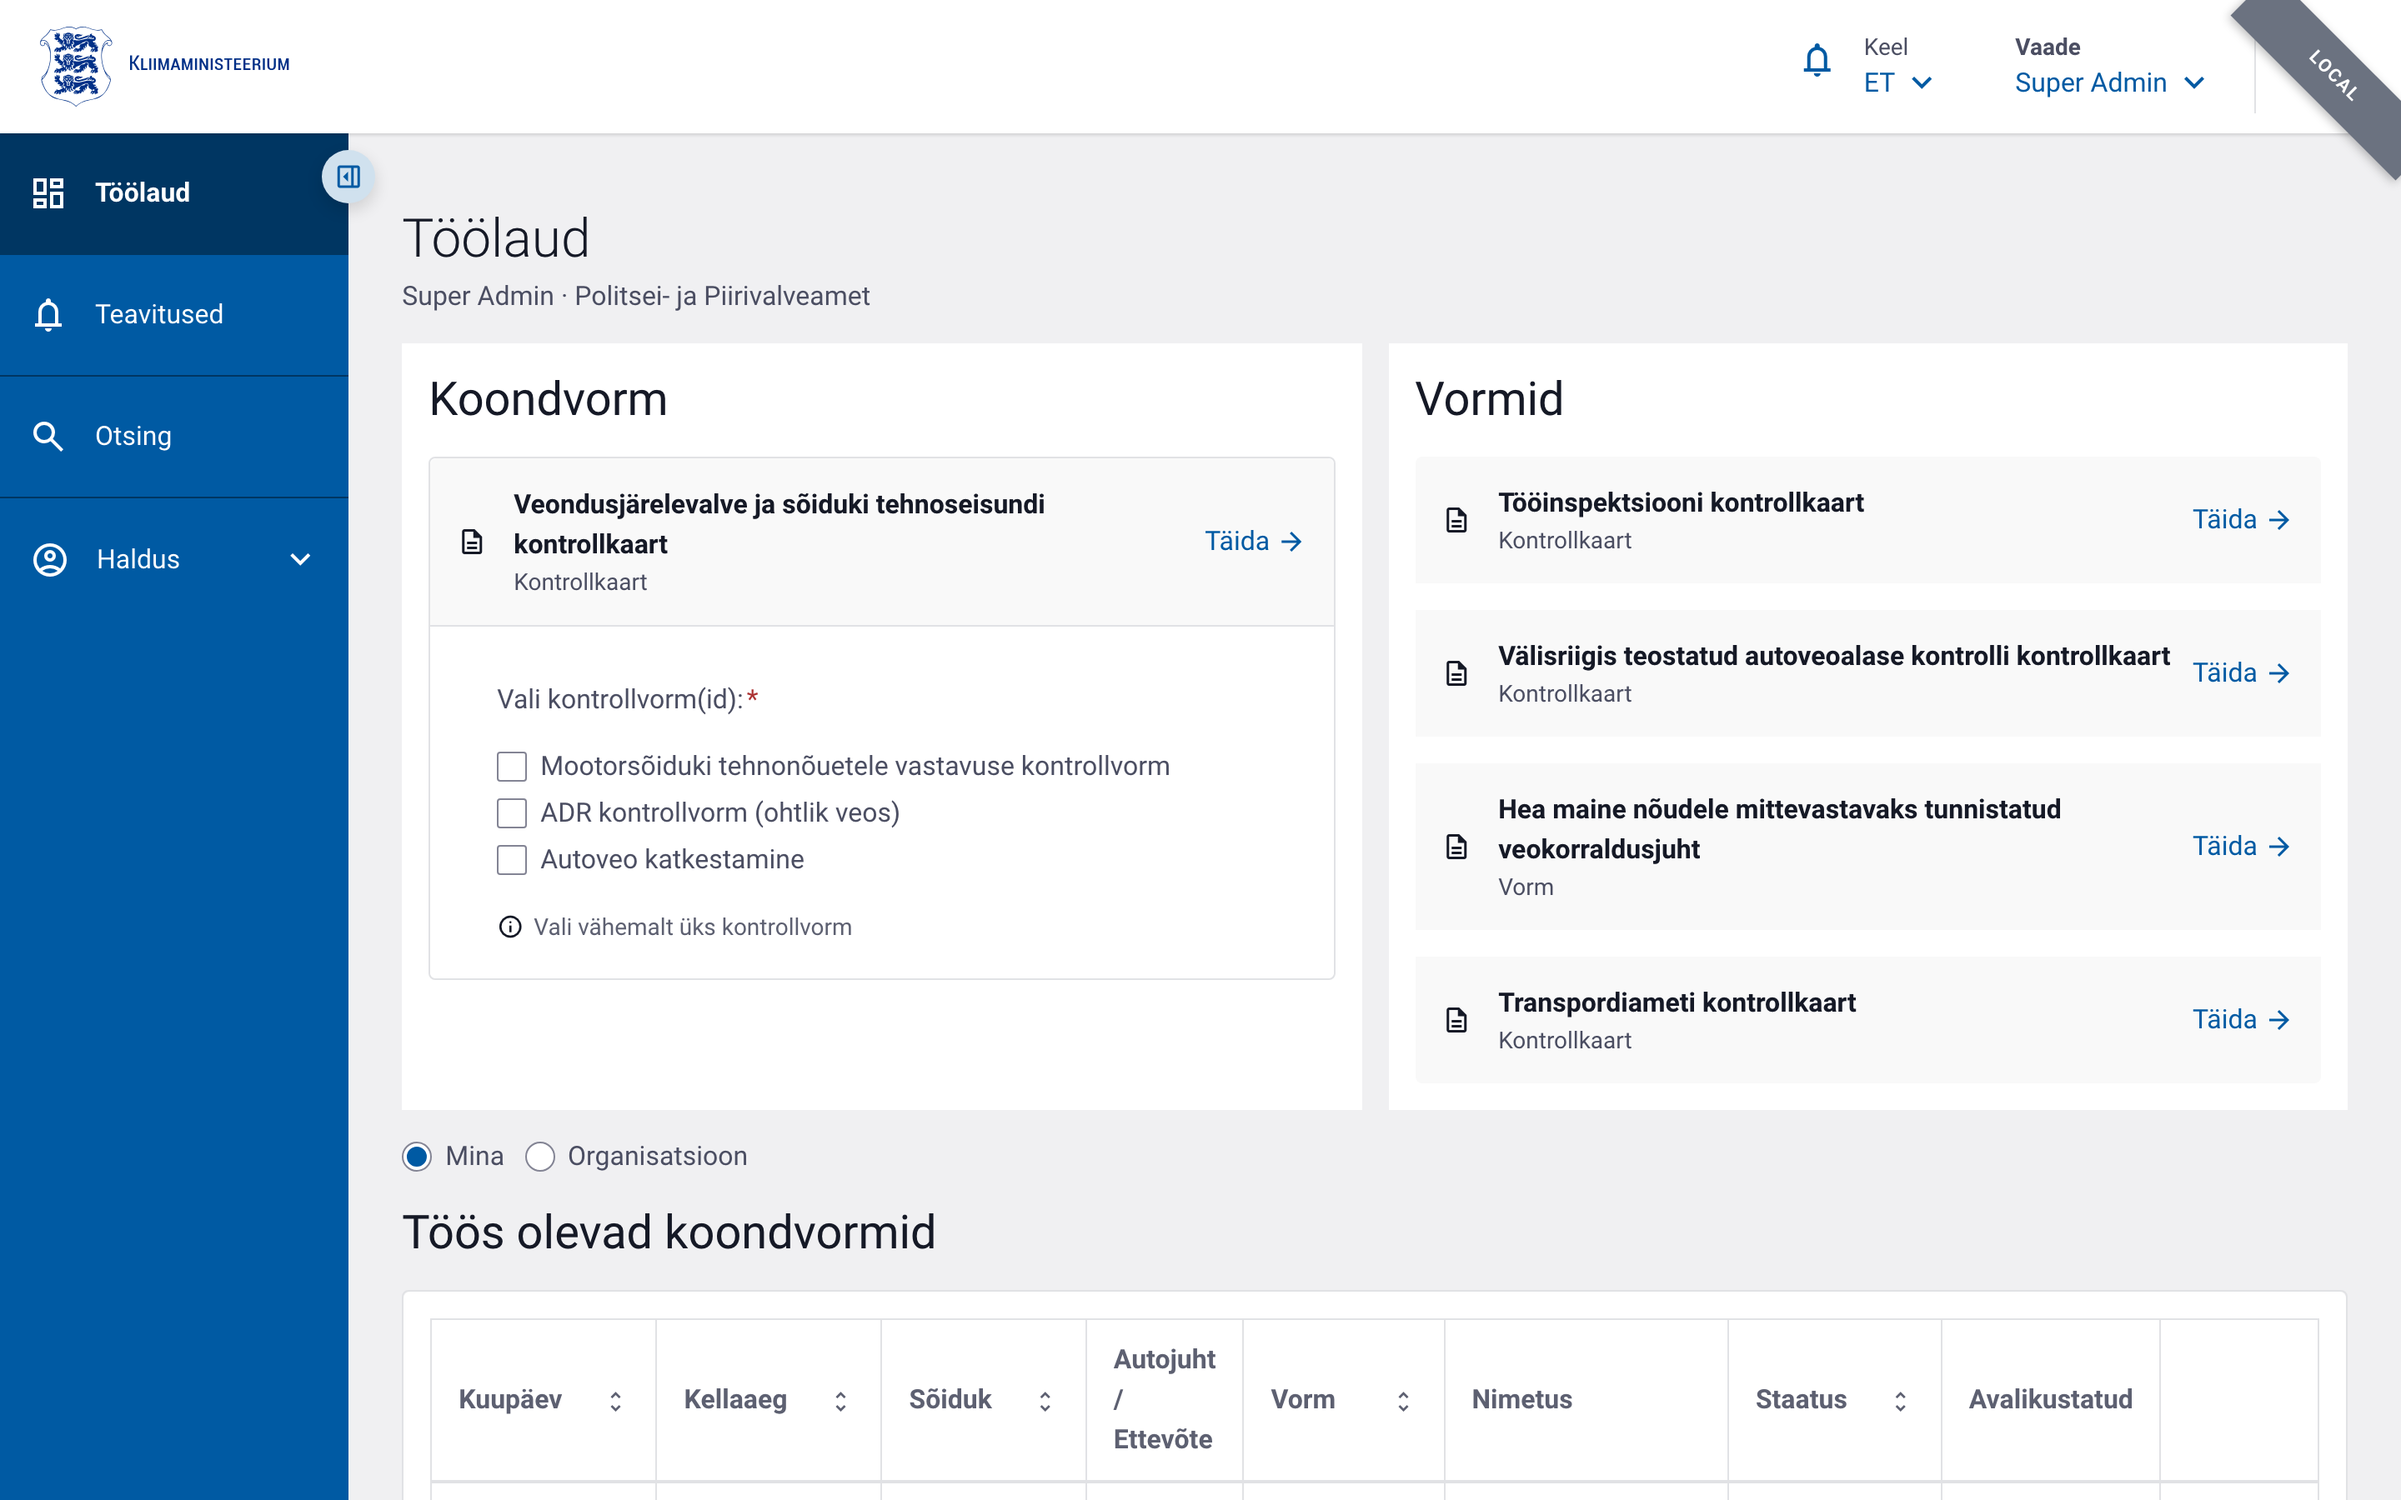
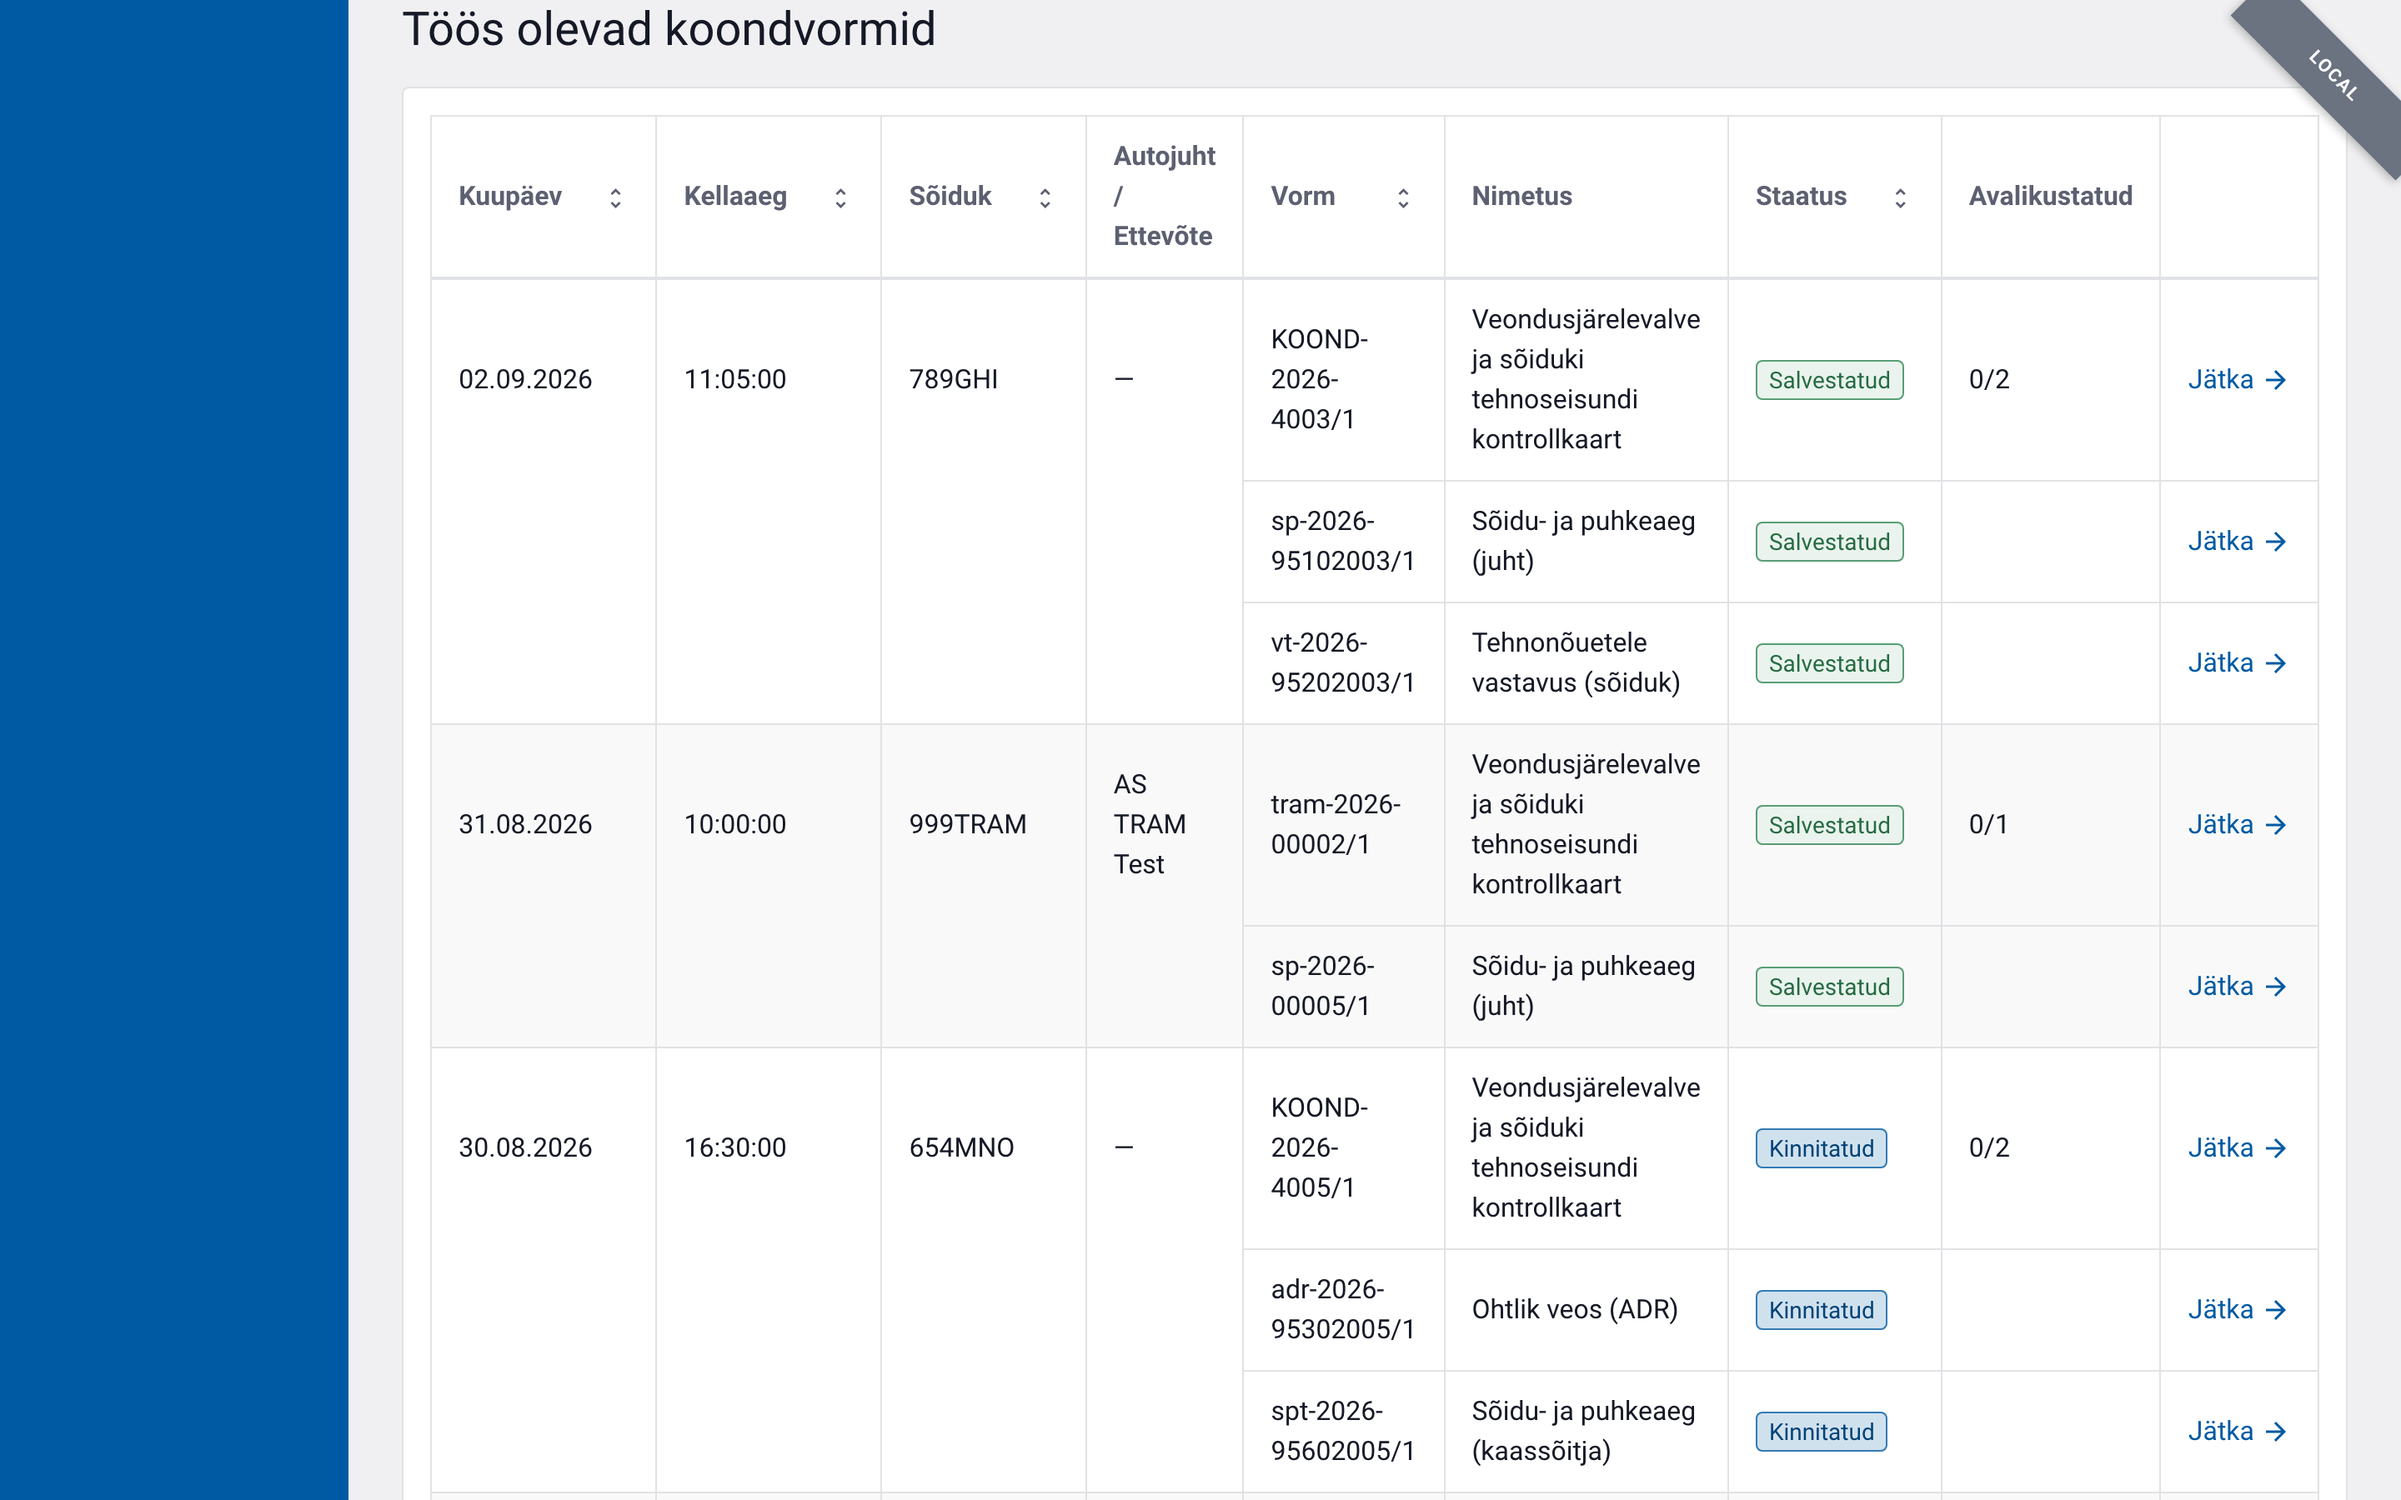
feat(menu): "Riskiskoorid" eraldi ülatasandi menüüpunktiks + juhendi uuendus
- useSideNavProps: risk-scores punkt tõstetud "Haldus" alt välja ülatasandile
  (ikoon trending_up), nimi nav.riskLevels → nav.riskScores "Riskiskoorid"
- riskScores.title "Riskitasemed" → "Riskiskoorid"; breadcrumb uuendatud
- ptk 03 (menüü): Riskiskoorid ülatasandil; ERRU-menüüpunktide uued nimed
- ptk 04 (töölaud): lisatud "Töös olevad vormid" tabeli kirjeldus + uus
  ekraanipilt; kirjeldus täpsustatud (kaks tabelit, grupeerimine)
- ptk 16 + admin-guide 06: navigatsioon "Riskiskoorid"
- capture.mjs: uus shot 04-toolaud-vormid-tabel.png
- 7 ekraanipilti värskendatud + 1 uus

diff --git a/frontend/src/layout/useSideNavProps.tsx b/frontend/src/layout/useSideNavProps.tsx
@@ -84,6 +84,16 @@ export function useSideNavProps(): UseSideNavPropsResult {
       });
     }
 
+    // Riskiskoorid on eraldi ülatasandi menüüpunkt (mitte "Haldus" all).
+    if (hasPermission(PERMISSIONS.RISK_REPORT_LIST)) {
+      items.push({
+        children: t('nav.riskScores'),
+        icon: 'trending_up',
+        to: '/admin/risk-scores',
+        isActive: pathname.startsWith('/admin/risk-scores'),
+      });
+    }
+
     if (
       hasAnyPermission([
         PERMISSIONS.USER_LIST_ADMIN,
@@ -162,14 +172,6 @@ export function useSideNavProps(): UseSideNavPropsResult {
         children: t('nav.logs'),
         to: '/logs',
         isActive: pathname.startsWith('/logs'),
-      });
-    }
-
-    if (hasPermission(PERMISSIONS.RISK_REPORT_LIST)) {
-      adminSubItems.push({
-        children: t('nav.riskLevels'),
-        to: '/admin/risk-scores',
-        isActive: pathname.startsWith('/admin/risk-scores'),
       });
     }
 

diff --git a/frontend/src/layout/breadcrumbs/routes.ts b/frontend/src/layout/breadcrumbs/routes.ts
@@ -66,7 +66,7 @@ export const BREADCRUMB_ROUTES: BreadcrumbRouteEntry[] = [
   { pattern: '/logs', labelKey: 'nav.logs', parent: '/' },
 
   // Admin / misc
-  { pattern: '/admin/risk-scores', labelKey: 'nav.riskLevels', parent: '/' },
+  { pattern: '/admin/risk-scores', labelKey: 'nav.riskScores', parent: '/' },
   { pattern: '/notifications', labelKey: 'nav.notifications', parent: '/' },
 
   // Control forms — foreign violation

diff --git a/docs/user-guide/04-toolaud.md b/docs/user-guide/04-toolaud.md
@@ -5,8 +5,9 @@ roll ja organisatsioon (nt „Super Admin · Politsei- ja Piirivalveamet").
 
 ![Ametniku töölaud](images/04-toolaud/01-toolaud.png)
 
-Ametniku töölaud koosneb kahest uue kontrolli alustamise plokist ja nende all
-olevast pooleliolevate kontrollide tabelist.
+Ametniku töölaud koosneb kahest uue kontrolli alustamise plokist (**Koondvorm**
+ja **Vormid**) ning nende all olevast **kahest pooleliolevate kontrollide
+tabelist** — „Töös olevad koondvormid" ja „Töös olevad vormid".
 
 ## Koondvorm
 
@@ -38,16 +39,21 @@ Iga kaardi nupp **„Täida →"** avab vastava tühja vormi.
 
 > Kui Teie õigused katavad ainult ühe ploki vorme, kuvatakse ainult see plokk.
 
+## Mina / Organisatsioon
+
+Mõlema tabeli kohal on lüliti **Mina / Organisatsioon**, mis valib, kas
+kuvatakse ainult Teie enda pooleliolevad vormid või kõigi Teie organisatsiooni
+ametnike omad. Lüliti „Organisatsioon" on nähtav ainult vastava õigusega
+kasutajatele.
+
 ## Töös olevad koondvormid
 
-Plokkide all on tabel **Töös olevad koondvormid**, mis koondab kõik
-pooleliolevad kontrollid. Read on **grupeeritud koondvormi kaupa**: iga
-koondvormi esimene rida kannab põhivormi andmeid ning selle alla on taandega
-loetletud alamvormid.
+Esimene tabel **Töös olevad koondvormid** koondab kõik pooleliolevad
+koondkontrollid. Read on **grupeeritud koondvormi kaupa**: iga koondvormi
+esimene rida kannab põhivormi (üldosa) andmeid ning selle alla on **taandega**
+loetletud selle koondvormi alamvormid.
 
 ![Töös olevad koondvormid](images/04-toolaud/02-toolaud-tabel.png)
-
-### Tabeli veerud
 
 | Veerg | Sisu |
 |---|---|
@@ -56,20 +62,36 @@ loetletud alamvormid.
 | **Sõiduk** | Sõiduki registreerimismärk |
 | **Autojuht / Ettevõte** | Juhi nimi; kui see puudub, ettevõtte nimi |
 | **Vorm** | Vormi number koos versiooniga (nt `KOOND-2026-4003/1`) |
-| **Nimetus** | Vormi tüübi nimi |
+| **Nimetus** | Vormi tüübi nimi (koondvorm või alamvormi liik) |
 | **Staatus** | Vormi hetkeseis (*Salvestatud*, *Kinnitatud*, *Avalikustatud*) |
 | **Avalikustatud** | Koondvormi real: mitu alamvormi on avalikustatud (nt `0/2`) |
 
 Iga rea lõpus on link **„Jätka →"**, mis avab vormi täitmiseks/vaatamiseks.
-Veerge **Kuupäev**, **Kellaaeg**, **Sõiduk**, **Vorm** ja **Staatus** saab
-sorteerida veeru päisele klõpsates. Tähtaja ületanud kontrollide read on esile
-tõstetud.
 
-### Mina / Organisatsioon
+## Töös olevad vormid
 
-Tabeli kohal olev lüliti **Mina / Organisatsioon** valib, kas kuvatakse ainult
-Teie enda pooleliolevad koondvormid või kõigi Teie organisatsiooni ametnike
-omad. Lüliti „Organisatsioon" on nähtav ainult vastava õigusega kasutajatele.
+Teine tabel **Töös olevad vormid** loetleb pooleliolevad **iseseisvad** vormid
+(need, mida täidetakse koondvormist eraldi — tööinspektsiooni kontrollkaart,
+välisriigi rikkumise kontrollkaart, hea maine vorm, Transpordiameti
+kontrollkaart). Ühtegi grupeeringut siin ei ole — iga rida on üks vorm.
+
+![Töös olevad vormid](images/04-toolaud/04-toolaud-vormid-tabel.png)
+
+| Veerg | Sisu |
+|---|---|
+| **Kuupäev** | Kontrolli / sisestamise kuupäev |
+| **Kellaaeg** | Kontrolli kellaaeg |
+| **Sõiduk** | Sõiduki registreerimismärk (kui vorm seda sisaldab) |
+| **Vorm** | Vormi number koos versiooniga |
+| **Nimetus** | Vormi tüübi nimi |
+| **Staatus** | Vormi hetkeseis |
+
+Rea lõpus on link **„Jätka →"**. Tabeli all olev link **„Vaata kõiki vorme →"**
+avab vormide koondotsingu.
+
+Mõlemat tabelit saab **sorteerida** veeru päisele klõpsates. **Tähtaja ületanud**
+kontrollide read on punaselt esile tõstetud. Kui pooleliolevaid vorme ei ole,
+kuvatakse tabeli asemel vastav teade.
 
 ## Kodaniku töölaud
 
@@ -87,7 +109,9 @@ flowchart LR
     A[Töölaud] --> B["Koondvorm: vali alamvormid + Täida"]
     A --> C["Vormid: vali tüüp + Täida"]
     A --> D["Töös olevad koondvormid: Jätka"]
+    A --> F["Töös olevad vormid: Jätka"]
     B --> E[Täida ja salvesta vorm]
     C --> E
     D --> E
+    F --> E
 ```

diff --git a/docs/user-guide/03-menyy.md b/docs/user-guide/03-menyy.md
@@ -1,21 +1,25 @@
 # Menüü ja navigatsioon
 
 Põhimenüü asub vasakul küljel. Menüüpunktid sõltuvad Teie õigustest. Ülemisel
-tasemel on **Töölaud**, **Teavitused**, **Otsing** ja **Haldus**.
+tasemel on **Töölaud**, **Teavitused**, **Otsing**, **Riskiskoorid** ja
+**Haldus**.
 
 ![Vasakmenüü](images/03-menyy/01-vasakmenyy.png)
 
+**Riskiskoorid** (õigus `risk_report.list`) avab veoettevõtete riskiskooride ja
+-tasemete loendi — vt [Riskihindamine](16-riskihindamine.md).
+
 Haldustegevused on koondatud **Haldus** rühma alla, mis avaneb sellele klõpsates.
 Alammenüüs on **Kasutajad**, **Kasutajagrupid**, **Klassifikaatorid**,
-**Tegevusloa kontrolli päringud**, **Mainepäringud**, **RSI teated**,
-**NCR teated**, **Logid** ja **Riskitasemed**. Kuvatakse ainult need punktid,
-milleks Teil on õigus:
+**Tegevusloa kontrolli päringud**, **Mainepäringud**, **Tehnokontrolli teated
+RSI**, **Kontrollitulemuse teated NCR** ja **Logid**. Kuvatakse ainult need
+punktid, milleks Teil on õigus:
 
 ![Haldus alammenüü](images/03-menyy/02-haldus-alammenyy.png)
 
 Neli keskmist punkti on **ERRU** (Euroopa autoveo-ettevõtjate register) teated
-ja päringud: tegevusloa kontroll (CTUD), hea maine päring (CGR), tehnokontrolli
-teade (RSI) ja kontrollitulemuse teade (NCR).
+ja päringud: tegevusloa kontroll (CTUD), hea maine päring (CGR), tehnokontroll
+(RSI) ja kontrollitulemus (NCR).
 
 Menüüriba saab kokku voltida ülemises servas oleva noolenupuga; kokkuvolditult
 kuvatakse ainult ikoonid.
@@ -26,16 +30,16 @@ kuvatakse ainult ikoonid.
 flowchart TD
     A[Töölaud] --> T[Teavitused]
     A --> S[Otsing]
+    A --> R[Riskiskoorid]
     A --> B[Haldus]
     B --> C[Kasutajad]
     B --> D[Kasutajagrupid]
     B --> E[Klassifikaatorid]
     B --> G[Tegevusloa kontrolli päringud CTUD]
     B --> H[Mainepäringud CGR]
-    B --> I[RSI teated]
-    B --> J[NCR teated]
+    B --> I[Tehnokontrolli teated RSI]
+    B --> J[Kontrollitulemuse teated NCR]
     B --> F[Logid]
-    B --> R[Riskitasemed]
 ```
 
 Uusi kontrollakte alustatakse **töölaualt** (plokid „Koondvorm" ja „Vormid"),
@@ -48,15 +52,15 @@ mitte eraldi menüüpunktist — vt peatükk [Töölaud](04-toolaud.md).
 | Töölaud | — | Avaleht kõigile autenditud kasutajatele |
 | Teavitused | — | Rakendusesisesed teavitused kõigile; „Saadetud kirjad" vahekaart `notification.list` õigusega |
 | Otsing | — | Vormide koondotsing (vt [Vormide vaatamine ja ajalugu](15-vormide-vaatamine-ajalugu.md)) |
+| Riskiskoorid | `risk_report.list` | Ettevõtete riskiskooride ja -tasemete loend (vt [Riskihindamine](16-riskihindamine.md)) |
 | Kasutajad | `user.list.admin` või `user.list.local` | Kasutajate nimekiri ja haldus |
 | Kasutajagrupid | `user_group.list.admin` või `user_group.list.local` | Gruppide haldus |
 | Klassifikaatorid | `classifier.list` | Klassifikaatorite vaatamine ja muutmine |
 | Tegevusloa kontrolli päringud (CTUD) | ERRU-õigus | ERRU tegevusloa kontrolli päringud |
 | Mainepäringud (CGR) | ERRU-õigus | ERRU hea maine päringud |
-| RSI teated | ERRU-õigus | Tehnokontrolli teated (RoadSideInspection) |
-| NCR teated | ERRU-õigus | Kontrollitulemuse teated (NotifyCheckResult) |
+| Tehnokontrolli teated RSI | ERRU-õigus | RoadSideInspection teated |
+| Kontrollitulemuse teated NCR | ERRU-õigus | NotifyCheckResult teated |
 | Logid | `audit.read` | Tegevuste (auditi)logi |
-| Riskitasemed | riskihindamise õigus | Ettevõtete riskitasemete loend (vt [Riskihindamine](16-riskihindamine.md)) |
 
 Kontrollakte alustatakse töölaualt, mitte menüüst; nende täitmisõigused on
 vormipõhised (nt `foreign_violation_form.write`, `compound_form.write`,

diff --git a/docs/user-guide/16-riskihindamine.md b/docs/user-guide/16-riskihindamine.md
@@ -90,8 +90,9 @@ sequenceDiagram
 
 ## Administraatori vaade
 
-Ametnikud saavad vaadata kõigi Eesti ettevõtete riskitasemete loendit (**Haldus →
-Riskitasemed**, õigus `risk_report.list`). Loend võimaldab:
+Ametnikud saavad vaadata kõigi Eesti ettevõtete riskiskooride loendit
+(vasakmenüü ülatasandi punkt **Riskiskoorid**, õigus `risk_report.list`).
+Loend võimaldab:
 
 - sorteerida ettevõtete nime järgi
 - filtreerida riskitaseme järgi (Hall, Roheline, Kollane, Punane)

diff --git a/docs/muudatused.md b/docs/muudatused.md
@@ -29,6 +29,14 @@
 
 ---
 
+## 2026-09 — Menüü: „Riskiskoorid" eraldi punktiks
+
+- Menüüpunkt **„Riskitasemed"** on tõstetud „Haldus" alt välja **vasakmenüü
+  ülatasandile** ja ümber nimetatud **„Riskiskoorid"**. Sisu ja õigus
+  (`risk_report.list`) ei muutu.
+
+---
+
 ## 2026-09 — Hea maine vorm: pealkiri ja abitekst
 
 - Vormi pealkiri (nii ametniku kui kodaniku vaates ning „vormi ei leitud"

diff --git a/docs/admin-guide/06-riskihindamine-admin.md b/docs/admin-guide/06-riskihindamine-admin.md
@@ -4,7 +4,7 @@ Administraatorid ja volitatud ametnikud saavad vaadata kõigi Eesti ettevõtete 
 
 ## Ligipääs
 
-Menüü → **Haldus → Riskitasemed**
+Vasakmenüü ülatasandi punkt **Riskiskoorid** (varem „Haldus → Riskitasemed").
 
 Õigus: `risk_report.list`
 
